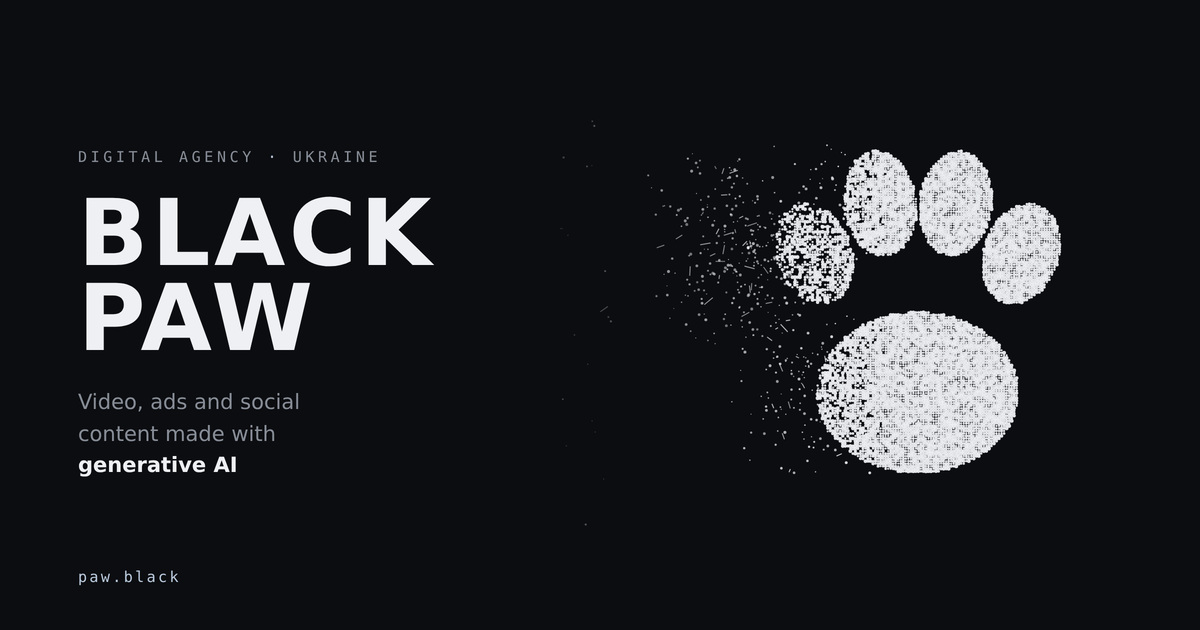
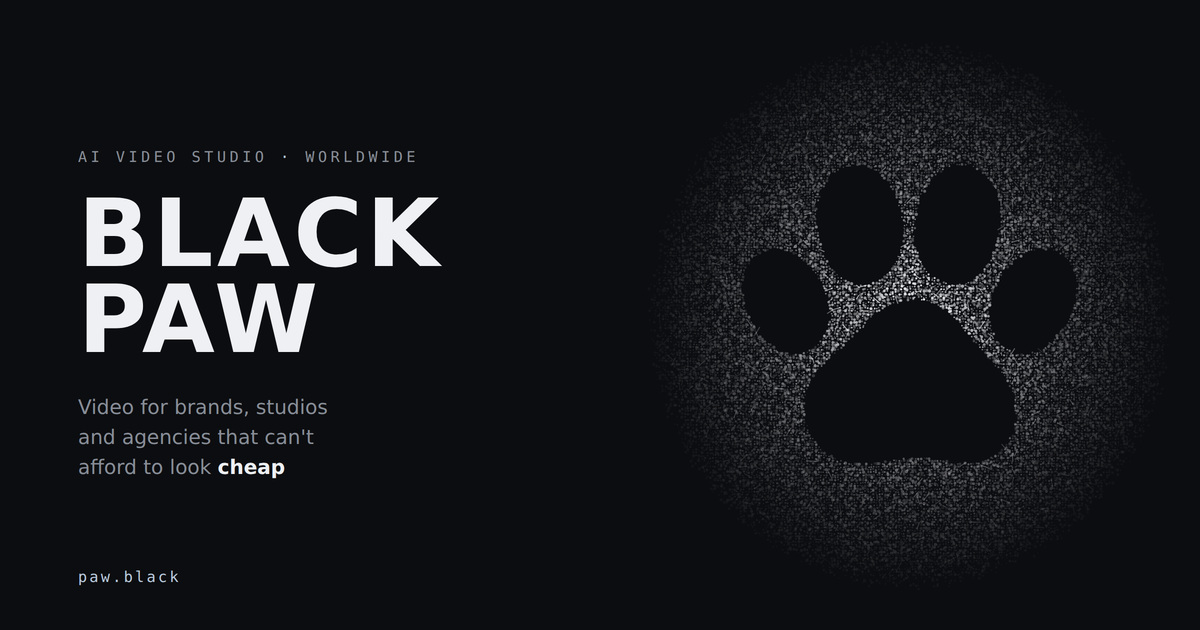
Switch contact email to info@paw.black; refresh og-cover

diff --git a/index.html b/index.html
@@ -698,7 +698,7 @@
         <p data-i18n="career.p1">We bring in senior freelancers on client projects for international brands. The work ships to a deadline, at a standard the client pays premium rates for — and it ships without anyone reviewing every frame behind you.</p>
         <p data-i18n="career.p2">Write to us if you have a showreel or three finished pieces that are yours end to end, and if you have already delivered against a real brief with a real client on the other side.</p>
         <p data-i18n="career.p3">We don't open junior positions, we don't set test tasks, and we don't reply to messages without work attached. If the portfolio speaks for you, one line of text is enough.</p>
-        <a class="btn btn-primary" id="careerMail" href="mailto:vi.aicreation@gmail.com?subject=Showreel%20%E2%80%94%20BLACK%20PAW" data-i18n="career.btn">Send your showreel</a>
+        <a class="btn btn-primary" id="careerMail" href="mailto:info@paw.black?subject=Showreel%20%E2%80%94%20BLACK%20PAW" data-i18n="career.btn">Send your showreel</a>
       </div>
       <ul class="roles reveal">
         <li class="role">
@@ -727,12 +727,12 @@
       <div class="reveal">
         <p class="eyebrow" data-i18n="contact.eyebrow">Get in touch</p>
         <h2 data-i18n="contact.h2">Tell us about your task — we'll come back with an idea and a price.</h2>
-        <a class="mail" id="mailLink" href="mailto:vi.aicreation@gmail.com?subject=Request%20from%20the%20BLACK%20PAW%20website">vi.aicreation@gmail.com</a>
+        <a class="mail" id="mailLink" href="mailto:info@paw.black?subject=Request%20from%20the%20BLACK%20PAW%20website">info@paw.black</a>
       </div>
       <dl class="info reveal">
         <div>
           <dt data-i18n="contact.dt1">Email</dt>
-          <dd><a href="mailto:vi.aicreation@gmail.com">vi.aicreation@gmail.com</a></dd>
+          <dd><a href="mailto:info@paw.black">info@paw.black</a></dd>
         </div>
         <div>
           <dt>Telegram</dt>
@@ -764,7 +764,7 @@
   "@type":"ProfessionalService",
   "name":"BLACK PAW",
   "description":"Video studio making AI-generated video, ads and brand content for brands, studios and agencies.",
-  "email":"vi.aicreation@gmail.com",
+  "email":"info@paw.black",
   "areaServed":"Worldwide"
 }
 </script>
@@ -1035,7 +1035,7 @@ var I18N = {
 
 (function(){
   var STORE_KEY = 'blackpaw-lang';
-  var EMAIL = 'vi.aicreation@gmail.com';
+  var EMAIL = 'info@paw.black';
   var DEFAULT_LANG = 'en';   /* мова за замовчуванням */
 
   /* --- визначення мови ---

diff --git a/README.md b/README.md
@@ -24,7 +24,7 @@ video/
 | Де | Що |
 |---|---|
 | `og-cover.jpg` | картинка прев'ю 1200×630 px — покласти в корінь репозиторію саме під цією назвою (на неї вказує `og:image`) |
-| `vi.aicreation@gmail.com` | пошта, якщо зміниться (зустрічається у 4 місцях) |
+| `info@paw.black` | пошта, якщо зміниться (зустрічається у 4 місцях) |
 
 ## Мова за замовчуванням
 
